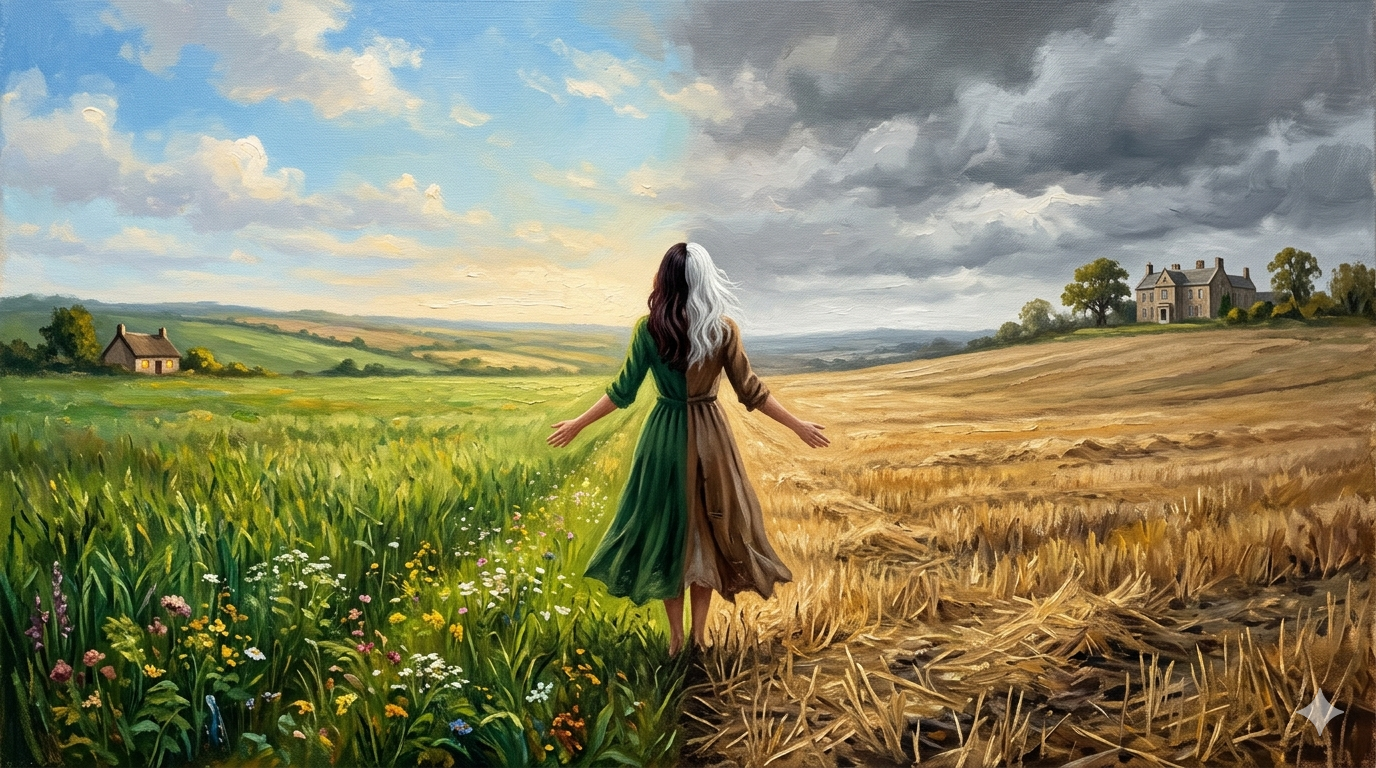
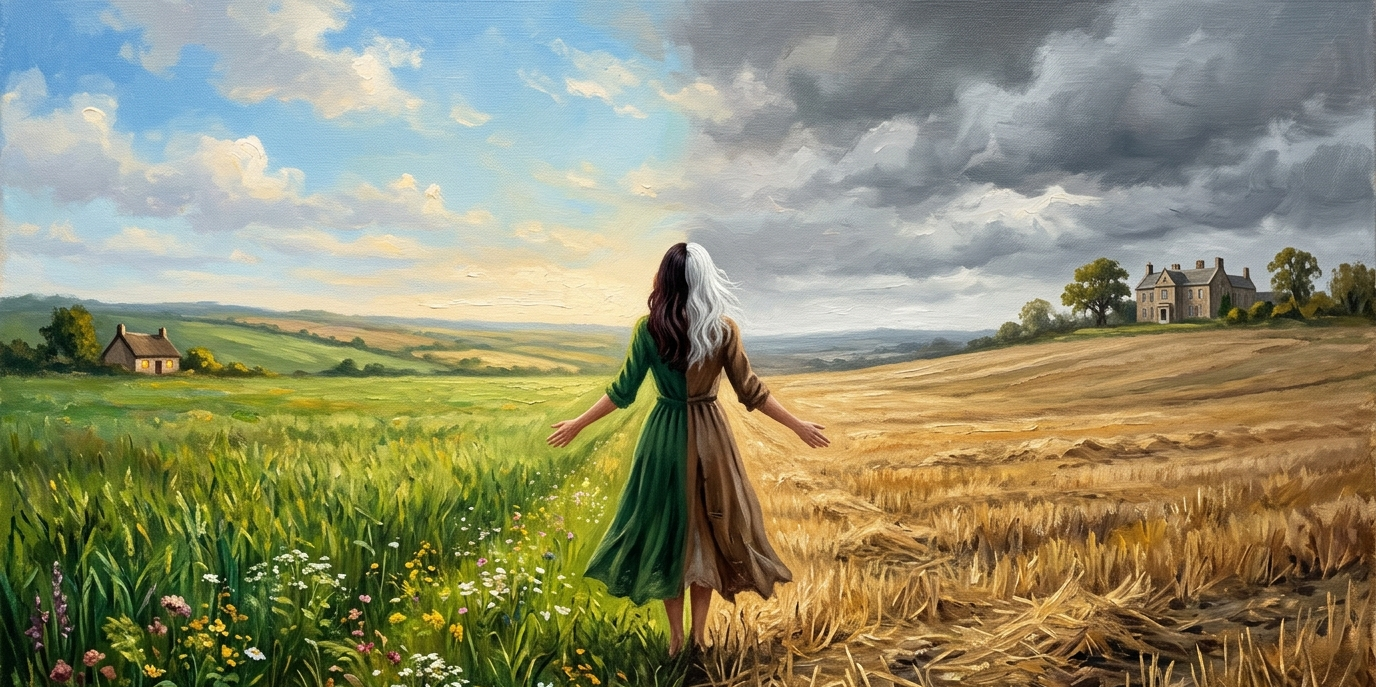
updates

diff --git a/src/scripts/data.js b/src/scripts/data.js
@@ -6,7 +6,8 @@ export const sabbats = {
     "description": "A central piece about recurrence, return, and the shape the year makes as it turns through itself.",
     "textLabel": "From the centre",
     "excerpt": "<p>This piece belongs at the centre of the wheel, where the turning begins to mean something more than simple motion.</p>",
-    "textSrc": "./src/texts/cycle.html"
+    "textSrc": "./src/texts/cycle.html",
+    "imageSrc": "./assets/images/thecycle.png"
   },
   "crossing": {
     "name": "The Crossing",
@@ -15,7 +16,8 @@ export const sabbats = {
     "description": "A threshold piece about passage, change, and the moment one thing becomes another.",
     "textLabel": "From the centre",
     "excerpt": "<p>This piece sits in the middle of the wheel, at the point where one state gives way to the next.</p>",
-    "textSrc": "./src/texts/crossing.html"
+    "textSrc": "./src/texts/crossing.html",
+    "imageSrc": "./assets/images/thecrossing.png"
   },
   "ending": {
     "name": "The Ending",
@@ -24,7 +26,8 @@ export const sabbats = {
     "description": "A piece about completion, loss, and the particular silence that follows a thing reaching its end.",
     "textLabel": "From the centre",
     "excerpt": "<p>This piece holds the part of the cycle where release matters as much as arrival.</p>",
-    "textSrc": "./src/texts/ending.html"
+    "textSrc": "./src/texts/ending.html",
+    "imageSrc": "./assets/images/theending.png"
   },
   "shape-of-it": {
     "name": "The Shape of It",
@@ -33,7 +36,8 @@ export const sabbats = {
     "description": "A piece about pattern, arrangement, and the moment the whole thing becomes visible at once.",
     "textLabel": "From the centre",
     "excerpt": "<p>This piece traces the outline of the world as it can only be seen when the wheel is read whole.</p>",
-    "textSrc": "./src/texts/shape-of-it.html"
+    "textSrc": "./src/texts/shape-of-it.html",
+    "imageSrc": "./assets/images/shapeofit.png"
   },
   "yule": {
     "name": "Yule",